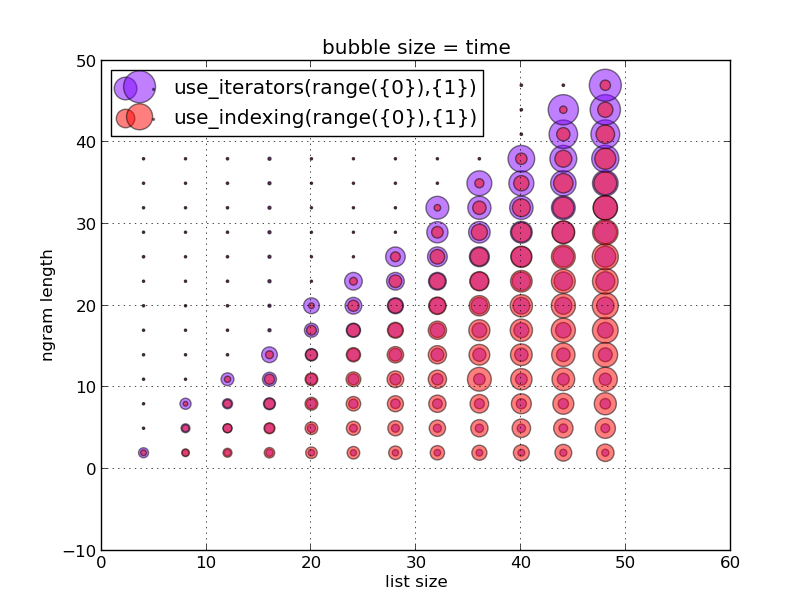
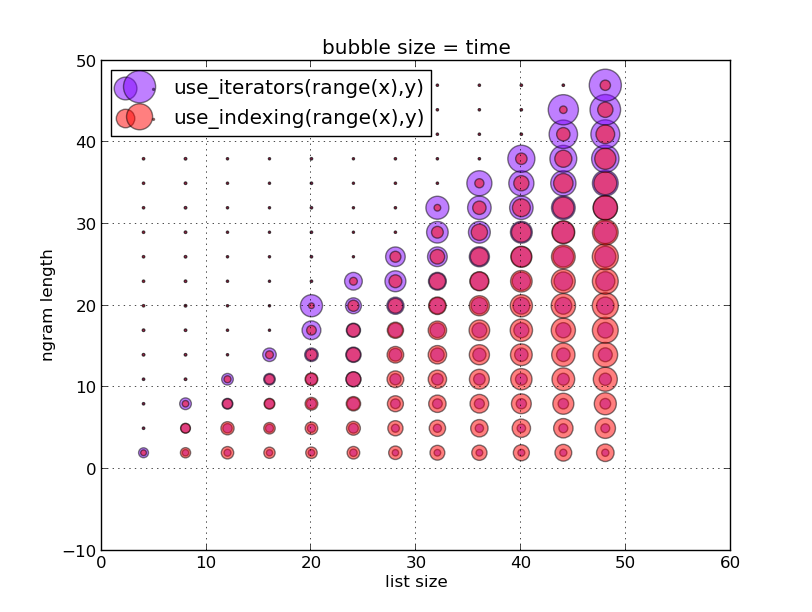
added kwarg options, updated TODOs, noted bugs, updated README with code changes

diff --git a/timeit_plot.py b/timeit_plot.py
@@ -57,6 +57,7 @@ def timeit_compare(funcs, inputs, setups='pass', **kwargs):
             performance[f].append(list(value) + [result])
     return performance
 
+
 def get_conditions(inputs = []): 
     """Converts a set of ranges for all variables into an 
     exhaustive list of test conditions for timeit_compare(). 
@@ -79,7 +80,11 @@ def get_conditions(inputs = []):
     return conditions
 
 
-# TODO: think about putting 2 and 3 grams in different colors
+# TODO: function to filter a large dataset
+# TODO: filter and options to plot 2 and 3 grams in different colors 
+#       on the same chart
+
+
 def timeit_plot2D(data, xlabel='xlabel', title='title', **kwargs):
     """Plots the results from a defaultdict returned by timeit_compare.
     
@@ -93,28 +98,27 @@ def timeit_plot2D(data, xlabel='xlabel', title='title', **kwargs):
     """
     series = kwargs.get('series', 0)
     style = kwargs.get('style', 'line')
-    bubble_size = kwargs.get('bubble_size', 500)
+    size = kwargs.get('size', 500)
     ylabel = kwargs.get('ylabel', 'time')
+    cmap = kwargs.get('cmap', 'rainbow')
+    lloc = kwargs.get('lloc', 2)
     dataT = {}
     # set color scheme
-    c = iter(cm.rainbow(np.linspace(0, 1, len(data))))
+    c = iter(plt.get_cmap(cmap)(np.linspace(0, 1, len(data))))
     # transpose the data from [x, y, z]... into ([x...], [y...], [z...])
     for k, v in data.items():
         dataT[k] = zip(*v)
     fig, ax = plt.subplots()
     for k, v in dataT.items():
         if style == 'scatter':
-            ax.scatter(v[series], v[-1], s=100, c=next(c), alpha=.75)
+            ax.scatter(v[series], v[-1], s=size, c=next(c), alpha=.75)
         elif style == 'bubble':
             x, y, z = v[series[0]], v[series[1]], v[-1]
-            ax.scatter(x, y, s=[bubble_size*i for i in z], c=next(c), alpha=.5)
+            ax.scatter(x, y, s=[size*i for i in z], c=next(c), alpha=.5)
         else: 
             ax.plot(v[series], v[-1], c=next(c), lw=2)
-    try:
-        # TODO: fix format() for data across multiple variables/substitutions
-        ax.legend([k.format("x") for k in dataT.keys()], loc=2)
-    except:
-        ax.legend(dataT.keys(), loc=2)
+    # TODO: BUG: no way to set other parameters manually (README fig2)
+    ax.legend([substitute_titles(k,series) for k in dataT.keys()], loc=lloc)
     ax.set_xlabel(xlabel)
     ax.set_ylabel(ylabel)
     ax.set_title(title)
@@ -140,18 +144,18 @@ def timeit_plot3D(data, xlabel='xlabel', ylabel='ylabel', **kwargs):
         wide, tall = 1+wide/intervalX, 1+tall/intervalY
         X = np.reshape(X, [wide, tall])
         Y = np.reshape(Y, [wide, tall])
+        # TODO: BUG: fix so that Z transposes with x & y reversed
         Z = np.reshape(Z, [wide, tall])
         surf = ax.plot_surface(X, Y, Z, rstride=1, cstride=1, cmap=cmap, linewidth=0, antialiased=False)
         ax.zaxis.set_major_locator(LinearLocator(10))
         ax.zaxis.set_major_formatter(FormatStrFormatter('%.02f'))
         ax.set_xlabel(xlabel)
         ax.set_ylabel(ylabel)
-        # TODO: add format() to substitute 'x' and 'y' to make titles neater
-        ax.set_title(k)
+        ax.set_title(substitute_titles(k,series))
         fig.colorbar(surf, shrink=0.5, aspect=5)
         figs.append(fig)
     return figs
-    
+
     
 def timeit_heatmap(data, xlabel='xlabel', ylabel='ylabel', **kwargs):
     """Heatmap plot of timeit data, one chart per function. 
@@ -169,15 +173,16 @@ def timeit_heatmap(data, xlabel='xlabel', ylabel='ylabel', **kwargs):
         wide, tall = (max(X)-min(X)+1), (max(Y)-min(Y)+1)
         intervalX = max(X) - min(heapq.nlargest(2,set(X)))
         intervalY = max(Y) - min(heapq.nlargest(2,set(Y)))
-        try: 
+        if intervalX > 1: 
             wide = 1 + wide/intervalX
-        except:
+        else:
             wide = 1
-        try: 
+        if intervalY > 1: 
             tall = 1 + tall/intervalY
-        except: 
+        else: 
             tall = 1
-        Z = np.reshape(Z, [wide, -1])
+        # TODO: BUG: fix so that Z transposes with x & y series reversed
+        Z = np.reshape(Z, [wide, tall])
         Z = list(zip(*Z))           # Z is transposed
         Z = [i for i in Z[::-1]]    # Z is upside down
         fig, ax = plt.subplots()
@@ -185,7 +190,16 @@ def timeit_heatmap(data, xlabel='xlabel', ylabel='ylabel', **kwargs):
         fig.colorbar(hmap).set_label("time")
         ax.set_xlabel(xlabel)
         ax.set_ylabel(ylabel)
-        # TODO: add format() to substitute 'x' and 'y' to make titles neater
-        ax.set_title(k)
+        ax.set_title(substitute_titles(k,series))
         figs.append(fig)
     return figs
+
+def substitute_titles(label, series):
+    ordered_axes=["x", "y", "z"]
+    try: 
+        for i, v in enumerate(series): 
+            label = label.replace("{"+str(v)+"}", ordered_axes[i])
+    except: 
+        label = label.replace("{"+str(series)+"}", ordered_axes[0])
+    return label
+

diff --git a/README.rst b/README.rst
@@ -50,6 +50,7 @@ the specified conditions. ::
 2. Further examples
 -------------------
 
+``timeit_compare()`` can take any number of functions and variables. 
 The example functions included, ``use_iterators()`` and ``use_indexing()``, 
 compare methods of grouping lists. ::
 
@@ -70,7 +71,7 @@ In this example, the first variable is held constant, because
 ``range(*[20,21]) = [20]``. The second variable is chosen for the following
 plot by using the keyword arg ``series=1``. ::
 
-    >>> timeit_plot2D(data, 'ngram length', 'list length 20', series=1, style='scatter')
+    >>> timeit_plot2D(data, 'ngram length', 'list length 20', series=1, style='scatter', size=100)
     >>> plt.show()
 
 .. image:: https://raw.github.com/cseager/timeit_plot/master/images/ngram%20length%20on%2020%20items%20v%20time.png
@@ -108,7 +109,7 @@ Or it can be shown with a heatmap plot: ::
 Or a bubble plot: ::
 
     >>> timeit_plot2D(data3, 'list size', 'bubble size = time', series=[0,1],
-                style='bubble', bubble_size=5000, ylabel='ngram length')
+                style='bubble', size=5000, ylabel='ngram length')
 
 .. image:: https://raw.github.com/cseager/timeit_plot/master/images/bubble%20plot.png
     :alt: example bubble plot
